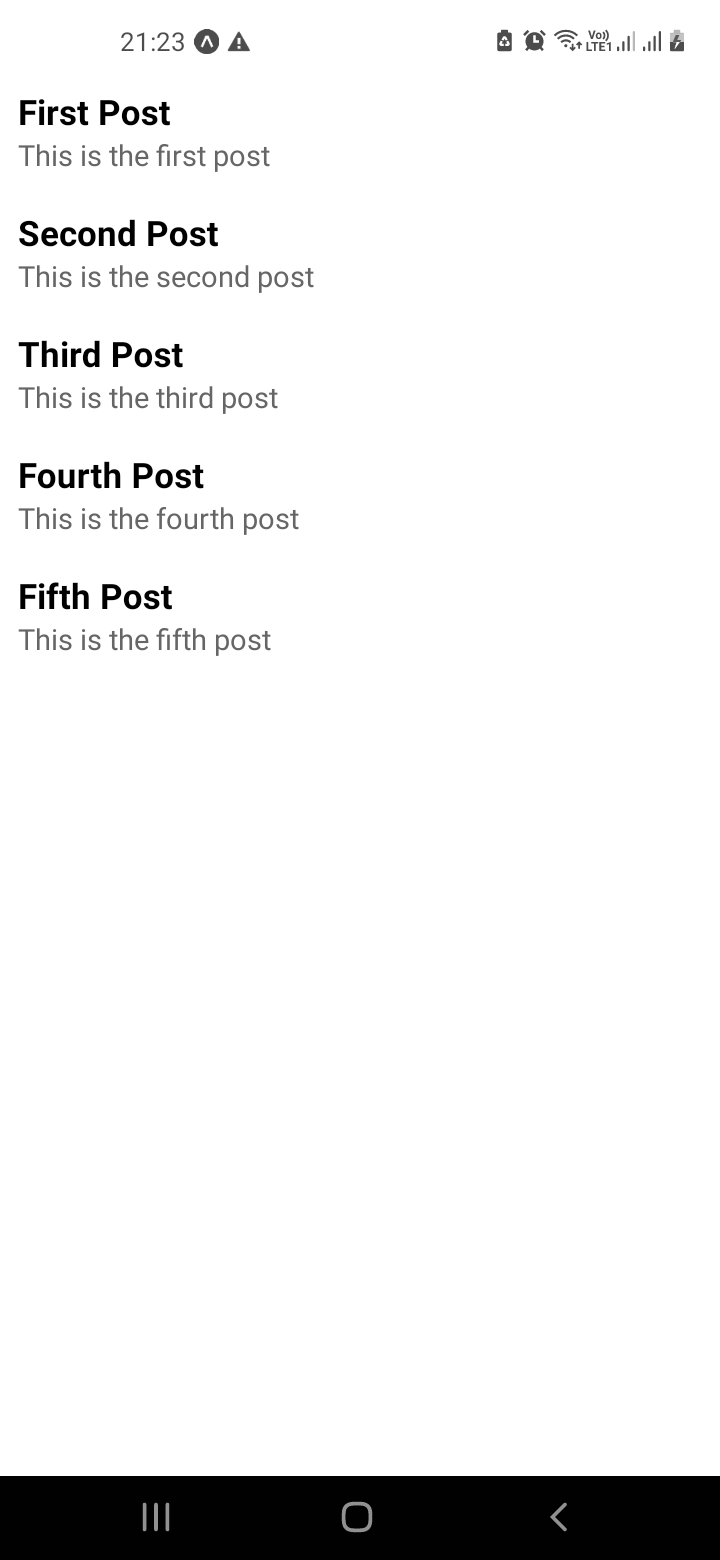
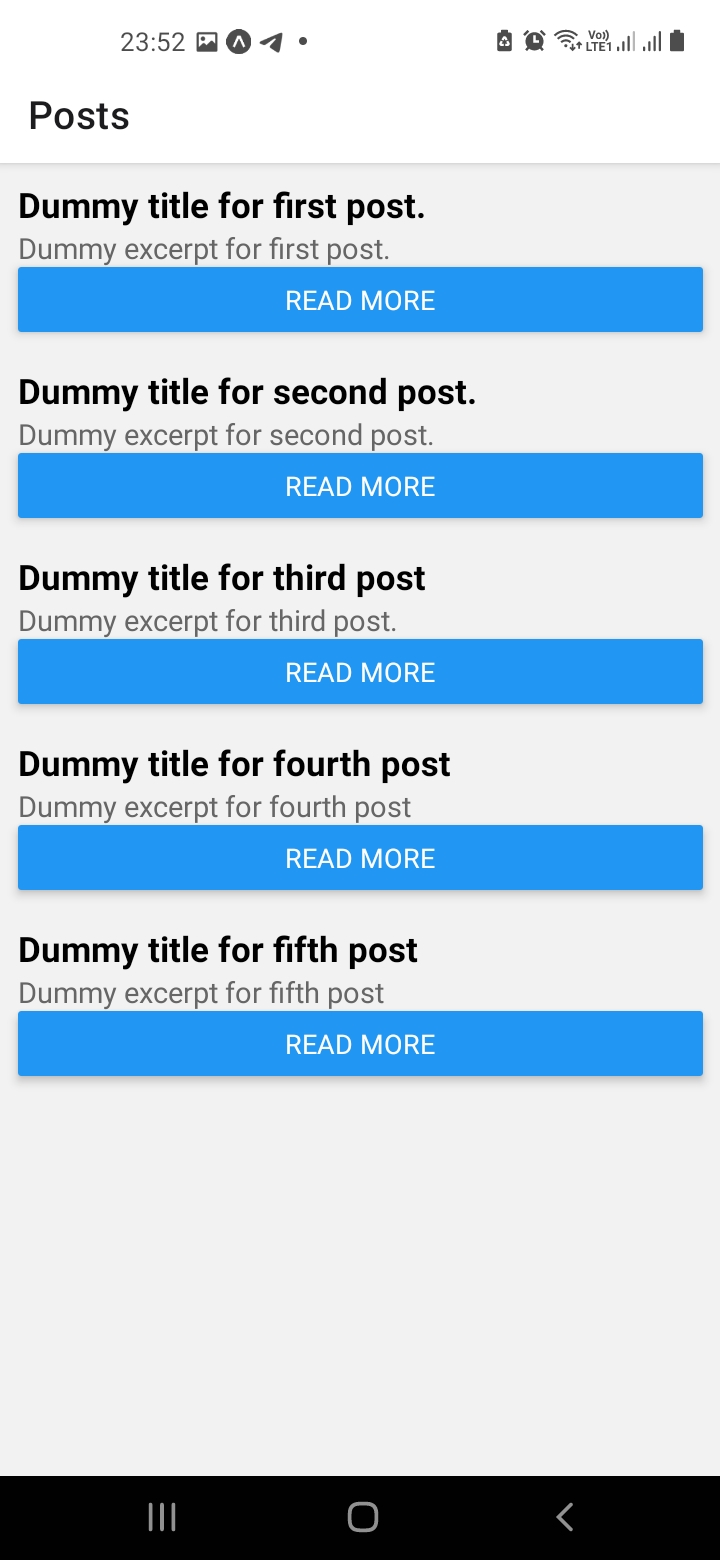
minor changes

diff --git a/content/articles/guide-to-run-react-native-app-with-typescript/index.md b/content/articles/guide-to-run-react-native-app-with-typescript/index.md
@@ -16,6 +16,7 @@ To follow along with this tutorial, you'll need the following:
 - [Creating application components](#creating-application-components)
 - [Adding posts](#adding-posts)
 - [Fetching posts](#fetching-posts)
+  - [Fetching a single post](#fetching-a-single-post)
 - [Conclusion](#conclusion)
 
 ### Initializing your first React Native project with Typescript
@@ -45,6 +46,18 @@ Our application will be bootstrapped from a blank typescript application templat
 
 ```bash
 cd react-native-blog-app
+```
+
+To enhance navigation between the various screens, we will install the following packages:
+
+```bash
+npm install @react-navigation/native @react-navigation/native-stack
+```
+
+Install the peer dependencies of the above packages using `Expo` as shown below:
+
+```bash
+expo install react-native-screens react-native-safe-area-context
 ```
 
 Then run your project by using:
@@ -95,24 +108,46 @@ export default function Post(){
 }
 ```
 
-In your `App.tsx`, import the `Posts` component:
+In your `App.tsx`, import the navigation packages:
+
+```ts
+import { NavigationContainer } from '@react-navigation/native';
+import { createNativeStackNavigator } from '@react-navigation/native-stack';
+```
+
+Import the two different screens:
 
 ```ts
 import Posts from './components/Posts';
+import Post from './components/Post';
 ```
 
-Call the `Posts` component:
+Create the stack navigator:
+
+```ts
+const Stack = createNativeStackNavigator();
+```
+
+  Return a view with the screens we need to show:
 
 ```ts
 export default function App() {
-  return (
-    <View style={styles.container}>
-      <Posts />
-      <StatusBar style="auto" />
-    </View>
-  );
+    return (
+        <NavigationContainer>
+            <Stack.Navigator>
+                <Stack.Screen name="Posts" component={Posts} options={{
+                    title: 'Posts',
+                }} />
+                <Stack.Screen name="Post" component={Post} options={{
+                    title: 'Post',
+                }} />
+            </Stack.Navigator>
+        </NavigationContainer>
+    );
 }
 ```
+
+The screens are inside the `NavigationContainer` and the `Stack.Navigator`, so while navigating from one screen to the other, we will be using the name of that particular screen.
 
 Your application should now change the text displayed since we are now calling the `Posts` component.
 
@@ -125,33 +160,33 @@ In this article, we will use static posts stored inside the application. Create 
 export default [
     {
         id: 1,
-        title: 'First Post',
-        excerpt: 'This is the first post',
-        content: 'But I must explain to you how all this mistaken idea of denouncing pleasure and praising pain was born and I will give you a complete account of the system, and expound the actual teachings of the great explorer of the truth, the master-builder of human happiness. No one rejects, dislikes, or avoids pleasure itself, because it is pleasure, but because those who do not know how to pursue pleasure rationally encounter consequences that are extremely painful. Nor again is there anyone who loves or pursues or desires to obtain pain of itself, because it is pain, but because occasionally circumstances occur in which toil and pain can procure him some great pleasure. To take a trivial example, which of us ever undertakes laborious physical exercise, except to obtain some advantage from it? But who has any right to find fault with a man who chooses to enjoy a pleasure that has no annoying consequences, or one who avoids a pain that produces no resultant pleasure? On the other hand, we denounce with righteous indignation and dislike men who are so beguiled and demoralized by the charms of pleasure of the moment, so blinded by desire, that they cannot foresee.'
+        title: 'Dummy title for first post.',
+        excerpt: "Dummy excerpt for first post.",
+        content: "Dummy content here for the first post."
     },
     {
         id: 2,
-        title: 'Second Post',
-        excerpt: 'This is the second post',
-        content: 'But I must explain to you how all this mistaken idea of denouncing pleasure and praising pain was born and I will give you a complete account of the system, and expound the actual teachings of the great explorer of the truth, the master-builder of human happiness. No one rejects, dislikes, or avoids pleasure itself, because it is pleasure, but because those who do not know how to pursue pleasure rationally encounter consequences that are extremely painful. Nor again is there anyone who loves or pursues or desires to obtain pain of itself, because it is pain, but because occasionally circumstances occur in which toil and pain can procure him some great pleasure. To take a trivial example, which of us ever undertakes laborious physical exercise, except to obtain some advantage from it? But who has any right to find fault with a man who chooses to enjoy a pleasure that has no annoying consequences, or one who avoids a pain that produces no resultant pleasure? On the other hand, we denounce with righteous indignation and dislike men who are so beguiled and demoralized by the charms of pleasure of the moment, so blinded by desire, that they cannot foresee.'
+        title: 'Dummy title for second post.',
+        excerpt: 'Dummy excerpt for second post.',
+        content: 'Dummy content here for the second post.'
     },
     {
         id: 3,
-        title: 'Third Post',
-        excerpt: 'This is the third post',
-        content: 'But I must explain to you how all this mistaken idea of denouncing pleasure and praising pain was born and I will give you a complete account of the system, and expound the actual teachings of the great explorer of the truth, the master-builder of human happiness. No one rejects, dislikes, or avoids pleasure itself, because it is pleasure, but because those who do not know how to pursue pleasure rationally encounter consequences that are extremely painful. Nor again is there anyone who loves or pursues or desires to obtain pain of itself, because it is pain, but because occasionally circumstances occur in which toil and pain can procure him some great pleasure. To take a trivial example, which of us ever undertakes laborious physical exercise, except to obtain some advantage from it? But who has any right to find fault with a man who chooses to enjoy a pleasure that has no annoying consequences, or one who avoids a pain that produces no resultant pleasure? On the other hand, we denounce with righteous indignation and dislike men who are so beguiled and demoralized by the charms of pleasure of the moment, so blinded by desire, that they cannot foresee.'
+        title: 'Dummy title for third post',
+        excerpt: 'Dummy excerpt for third post.',
+        content: 'Dummy content here for the third post.'
     },
     {
         id: 4,
-        title: 'Fourth Post',
-        excerpt: 'This is the fourth post',
-        content: 'But I must explain to you how all this mistaken idea of denouncing pleasure and praising pain was born and I will give you a complete account of the system, and expound the actual teachings of the great explorer of the truth, the master-builder of human happiness. No one rejects, dislikes, or avoids pleasure itself, because it is pleasure, but because those who do not know how to pursue pleasure rationally encounter consequences that are extremely painful. Nor again is there anyone who loves or pursues or desires to obtain pain of itself, because it is pain, but because occasionally circumstances occur in which toil and pain can procure him some great pleasure. To take a trivial example, which of us ever undertakes laborious physical exercise, except to obtain some advantage from it? But who has any right to find fault with a man who chooses to enjoy a pleasure that has no annoying consequences, or one who avoids a pain that produces no resultant pleasure? On the other hand, we denounce with righteous indignation and dislike men who are so beguiled and demoralized by the charms of pleasure of the moment, so blinded by desire, that they cannot foresee.'
+        title: 'Dummy title for fourth post',
+        excerpt: 'Dummy excerpt for fourth post',
+        content: 'Dummy content here for the fourth post.'
     },
     {
         id: 5,
-        title: 'Fifth Post',
-        excerpt: 'This is the fifth post',
-        content: 'But I must explain to you how all this mistaken idea of denouncing pleasure and praising pain was born and I will give you a complete account of the system, and expound the actual teachings of the great explorer of the truth, the master-builder of human happiness. No one rejects, dislikes, or avoids pleasure itself, because it is pleasure, but because those who do not know how to pursue pleasure rationally encounter consequences that are extremely painful. Nor again is there anyone who loves or pursues or desires to obtain pain of itself, because it is pain, but because occasionally circumstances occur in which toil and pain can procure him some great pleasure. To take a trivial example, which of us ever undertakes laborious physical exercise, except to obtain some advantage from it? But who has any right to find fault with a man who chooses to enjoy a pleasure that has no annoying consequences, or one who avoids a pain that produces no resultant pleasure? On the other hand, we denounce with righteous indignation and dislike men who are so beguiled and demoralized by the charms of pleasure of the moment, so blinded by desire, that they cannot foresee.'
+        title: 'Dummy title for fifth post',
+        excerpt: 'Dummy excerpt for fifth post',
+        content: 'Dummy content here for the fifth post.'
     }
 ]
 ```
@@ -169,7 +204,8 @@ To implement the functionality of fetching the posts, we will work on `component
 - Import  `StyleSheet` and the dummy posts:
 
 ```ts
-import {StyleSheet} from 'react-native';
+import {StyleSheet,Button} from 'react-native';
+import {NavigationProp} from '@react-navigation/native';
 import posts from '../lib/posts';
 ```
 
@@ -184,10 +220,18 @@ interface Post {
 }
 ```
 
+- Define the structure of the props:
+
+```ts
+interface Props{
+    navigation:NavigationProp<any>;
+}
+```
+
 - Map the posts to the view:
 
 ```ts
-export default function Posts(){
+const Posts:React.FC<Props> = ({navigation}) => {
     return(
         <View>
             {
@@ -196,13 +240,18 @@ export default function Posts(){
                         <View key={post.id} style={styles.postCard}> 
                             <Text style={styles.postTitle}>{post.title}</Text>
                             <Text style={styles.postExcerpt}>{post.excerpt}</Text>
+                            <Button title="Read more" onPress={()=>navigation.navigate('Post',{post:item})} />
                         </View>
                     )
             })}
         </View>
     )
 }
+
+export default Posts;
 ```
+
+For each and every post, we are showing it's `title`, `excerpt`, and a button to read more, handled by it's `onPress` listener.
 
 - Append the CSS styles:
 
@@ -238,6 +287,61 @@ const styles = StyleSheet.create({
 Your posts should now be shown on your screen.
 
 ![posts-screen](/engineering-education/guide-to-run-react-native-app-with-typescript/posts-screen.jpg)
+
+#### Fetching a single post
+To fetch a single post, navigate to the `components/Post.tsx` file and import navigation and view utilities:
+
+```ts
+import {Text,View} from "react-native";
+import {NativeStackScreenProps} from '@react-navigation/native-stack';
+```
+
+- Implement the Interface for a `PostItem`:
+
+```ts
+interface PostItem {
+    id:number;
+    title:string;
+    excerpt:string;
+    content:string;
+}
+```
+
+- Define the type of a post:
+
+```ts
+type Post =  {
+    PostDetails:PostItem
+}
+```
+
+- Define the `route` prop structure:
+
+```ts
+type Props  ={
+    route: NativeStackScreenProps<Post,'PostDetails'>
+}
+```
+
+- Obtain the post item from the route and display it on the view:
+
+```ts
+const Post: React.FC<Props> = ({ route }) => {
+    const post: PostItem = route.params.post;
+    return (
+        <View>
+            <Text>{post.title}</Text>
+            <Text>{post.excerpt}</Text>
+            <Text>{post.content}</Text>
+        </View>
+    )
+}
+export default Post;
+```
+
+When you click on a post, you will be redirected to the specific page of the page as shown below:
+
+![post-screen-example](/engineering-education/guide-to-run-react-native-app-with-typescript/post-screen-example.jpg)
 
 ### Conclusion
 This guide walked you through a reflective introduction to Typescript and React Native. For better understanding, we have created a whole application that uses React Native to run the Typescript code.
